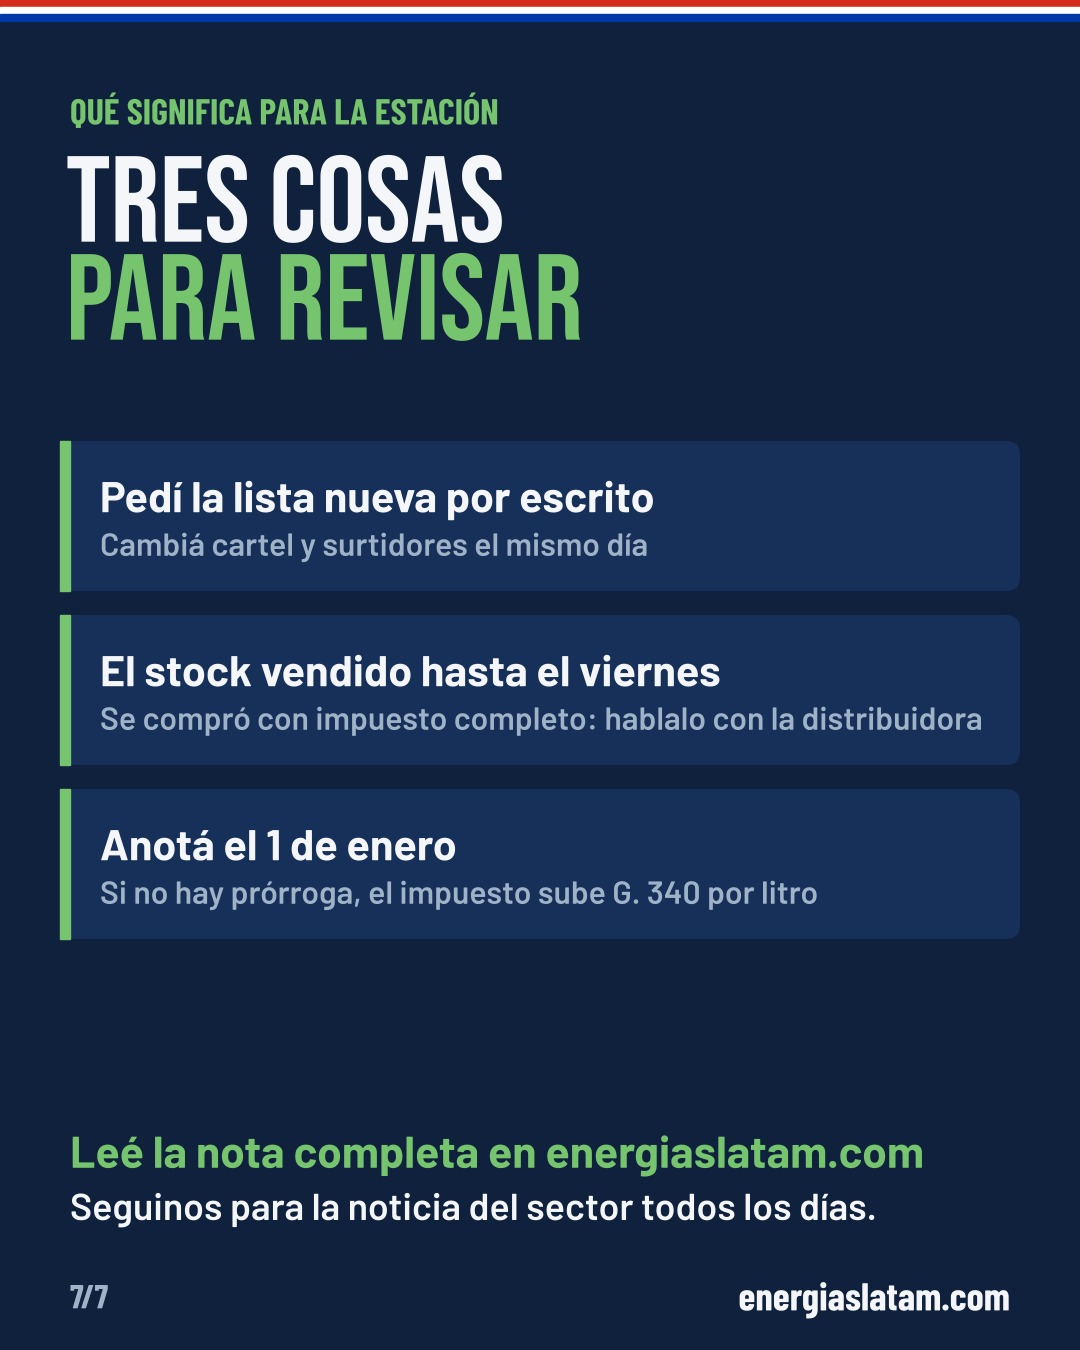
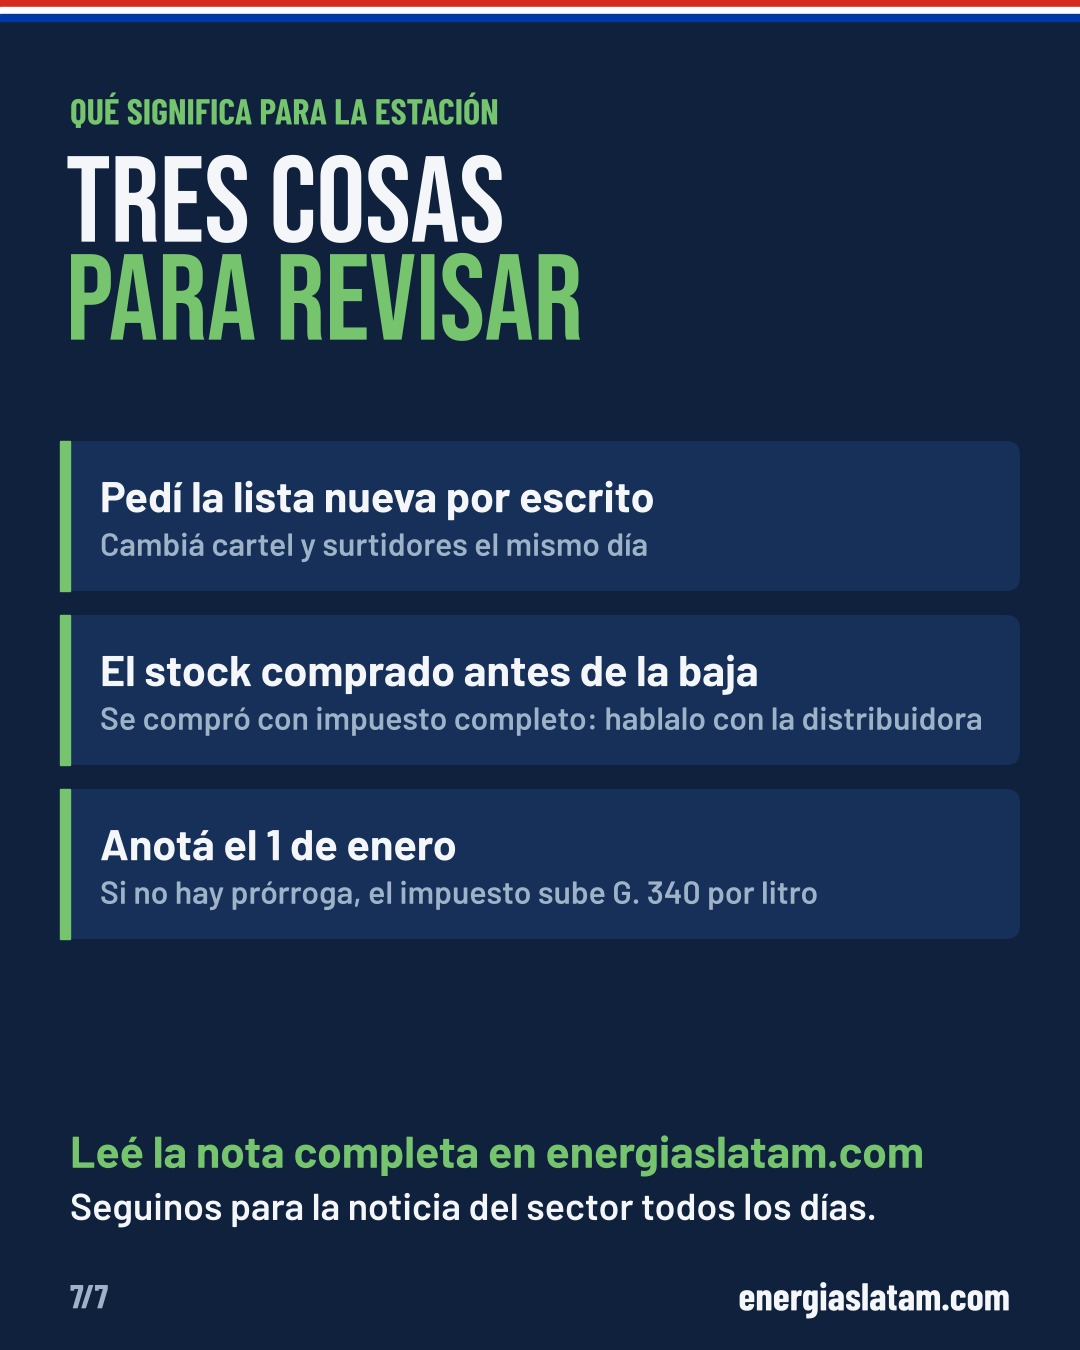
Carrusel del diésel: corrige el texto de la placa 7
Claude-Session: https://claude.ai/code/session_01HHGRFrapr8AXyd2C4Baz1m

Changed region(s): [[0.2444, 0.4667, 0.7028, 0.5289]]

diff --git a/herramientas/pa21_carr.py b/herramientas/pa21_carr.py
@@ -101,7 +101,7 @@ save(fig,6)
 fig,ax=base(7,'QUÉ SIGNIFICA PARA LA ESTACIÓN')
 y=title(ax,['TRES COSAS','PARA REVISAR'],y0=205,size=88,step=98)
 cards(ax,[('Pedí la lista nueva por escrito','Cambiá cartel y surtidores el mismo día'),
-          ('El stock vendido hasta el viernes','Se compró con impuesto completo: hablalo con la distribuidora'),
+          ('El stock comprado antes de la baja','Se compró con impuesto completo: hablalo con la distribuidora'),
           ('Anotá el 1 de enero','Si no hay prórroga, el impuesto sube G. 340 por litro')],y+40,h=150,gap=24)
 ax.text(70,1150,'Leé la nota completa en energiaslatam.com',fontfamily=B,fontweight='bold',fontsize=32,color=G,va='center')
 ax.text(70,1205,'Seguinos para la noticia del sector todos los días.',fontfamily=B,fontweight='semibold',fontsize=27,color=W,va='center')
